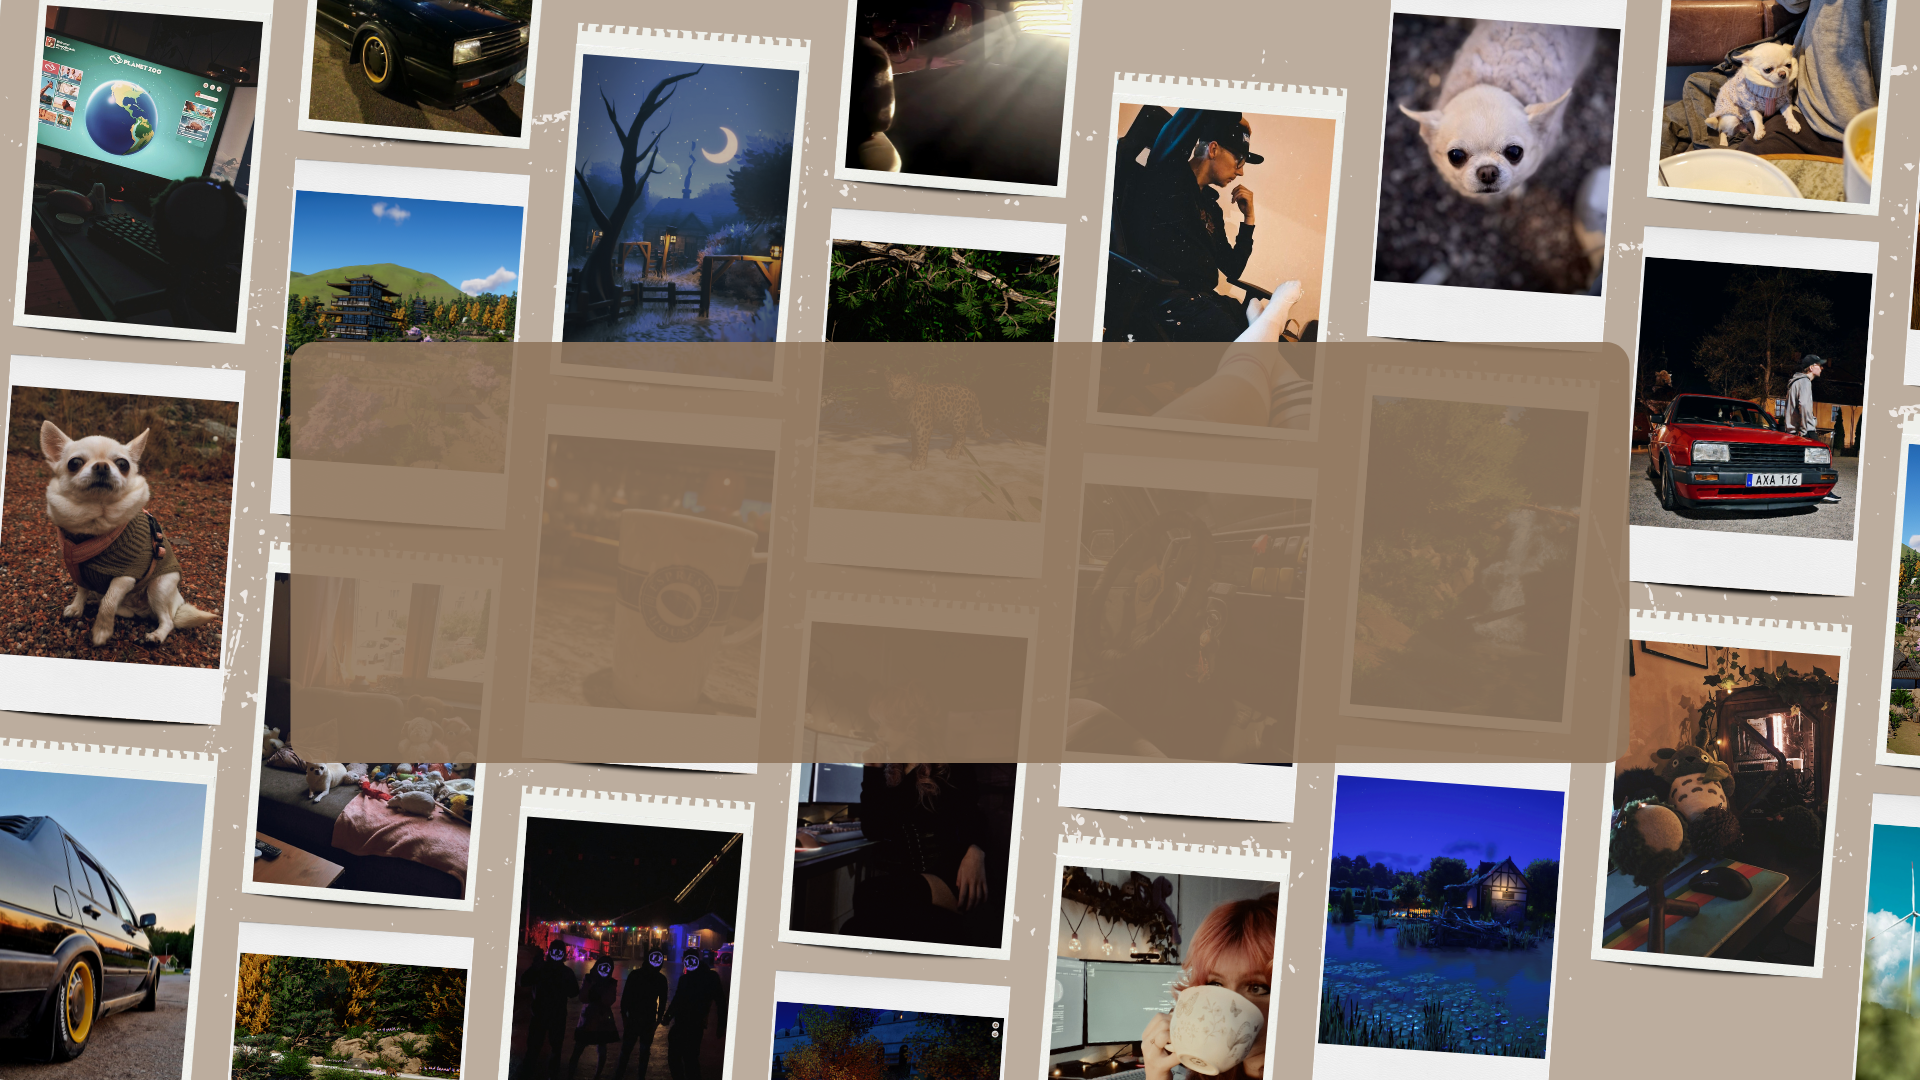
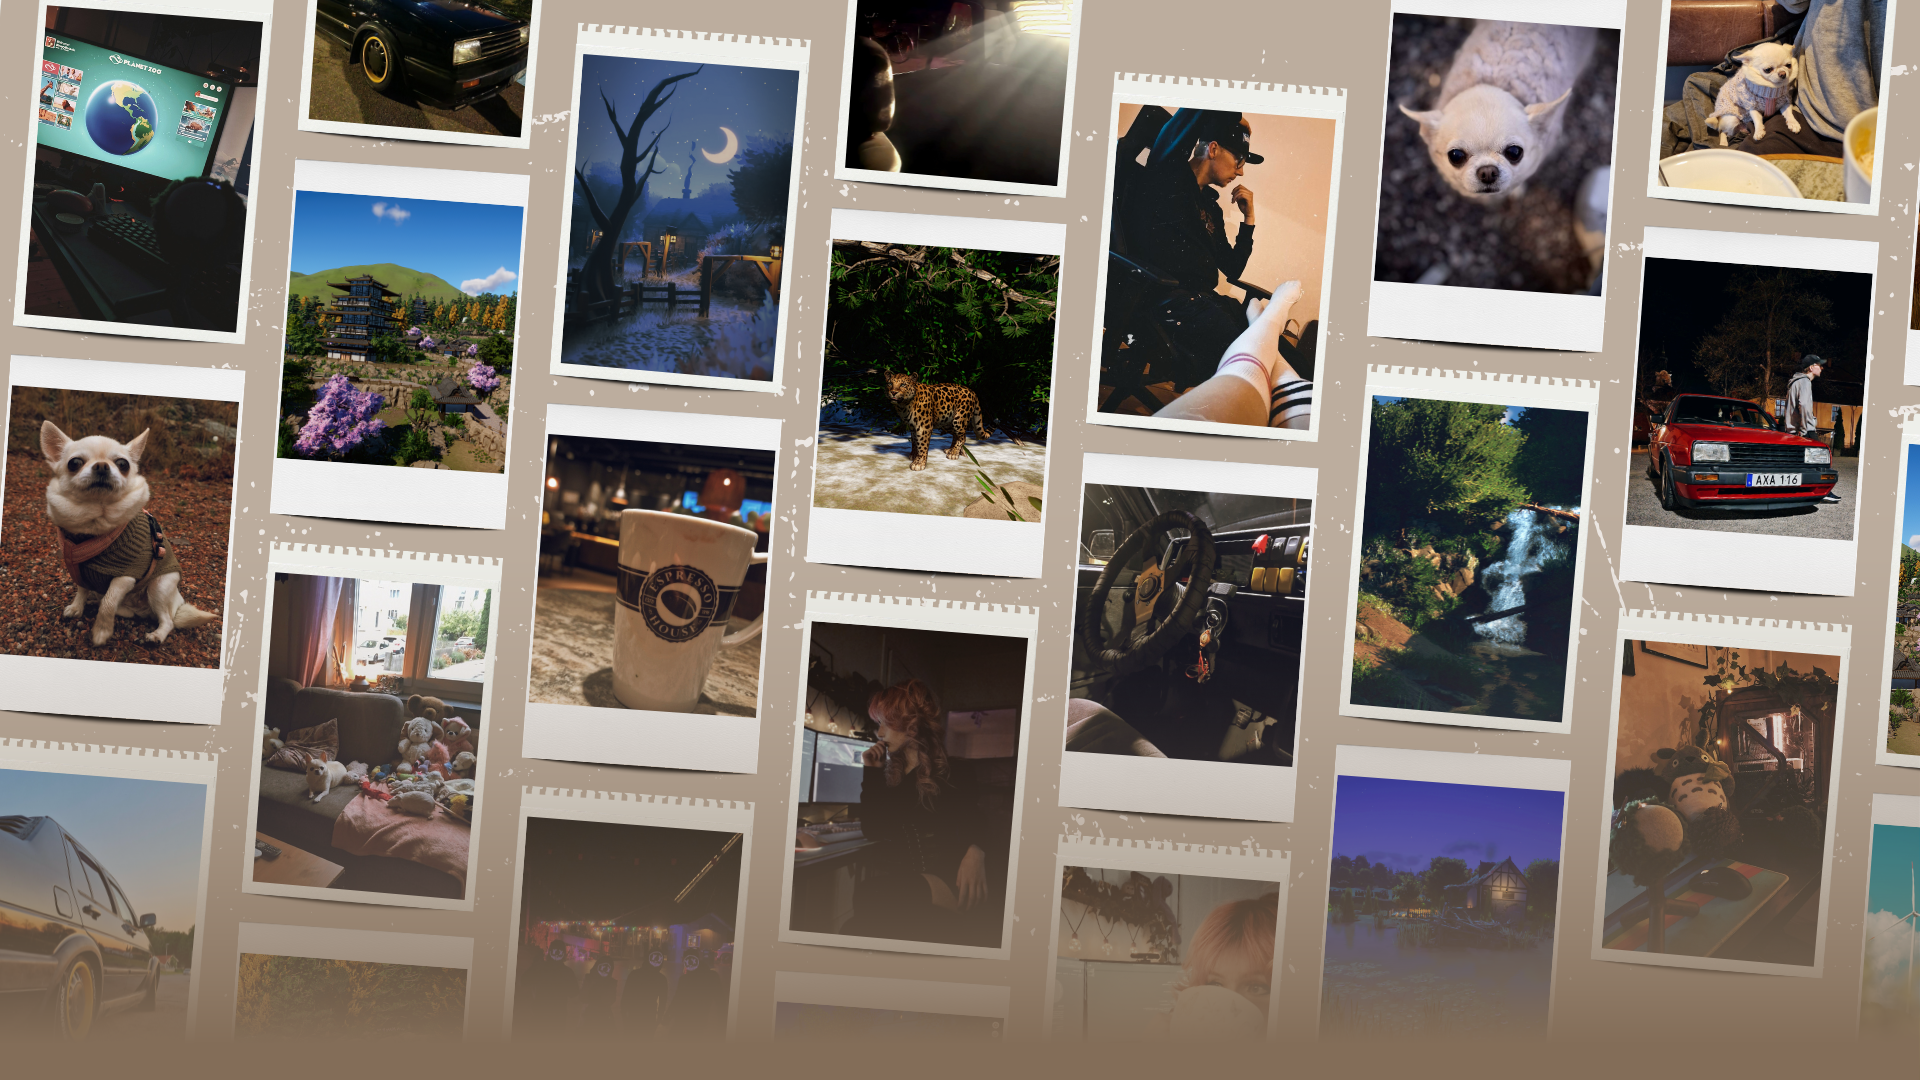
Fixes in layout and pics

diff --git a/Css/Styles.css b/Css/Styles.css
@@ -26,6 +26,7 @@ body {
 
   /* Colours */
   --color-primary:   #699953;
+  --color-primary-trans: rgba(70, 101, 55, 0.5);
   --color-text:      #222;
   --nav-bg:          #699953;
   --nav-link:        #e0f0ff;
@@ -38,6 +39,7 @@ body {
    ============================================================== */
 .ContentCreation {
   --color-primary:   #836d58;
+  --color-primary-trans: rgba(131, 109, 88, 0.5);
   --color-text:      #222;
   --nav-bg:          #836d58;
   --nav-link:        #e0f0ff;
@@ -93,11 +95,26 @@ a:hover { text-decoration: none; }
   justify-content: center;
   text-align: center;
   min-height: 100vh;
+  height: auto;
   padding: 2rem;
   z-index: 1;
-  background: cover no-repeat;
+  background-size: cover;      /* always fill the container, keep aspect ratio */
+  background-position: center; /* keep the focal point centered */
+  background-repeat: no-repeat;
+  background-attachment: scroll;   
   color: var(--nav-link);
 }
+
+.hero-content {
+  /* 1⃣ Make the box shrink‑wrap its children */
+  display: inline-block;       /* fits tightly to the text */
+  padding: 1.2rem 1.6rem;              /* space around the text */
+  border-radius: 0.8rem;               /* optional rounded corners */
+  background: var(--color-primary-trans);     /* semi‑transparent dark overlay */
+  backdrop-filter: blur(4px);          /* subtle frosted‑glass feel (optional) */
+  box-shadow: 0 4px 12px rgba(0,0,0,.3);/* slight depth */
+}
+
 .hero::before {
   content: "";
   position: absolute;

diff --git a/index.html b/index.html
@@ -17,12 +17,14 @@
 
     <!-- HERO SECTION (unchanged) -->
     <section class="hero">
-        <h1>Welcome to My Creative Hub</h1>
-        <h3>– Turning ideas into visual stories, functional interfaces, and clean code</h3>
-        <p>
-            I’m a multidisciplinary creator who blends design, development, and media production to deliver 
-            polished digital experiences. Below is a quick snapshot of the skills and projects I bring to every collaboration.
-        </p>
+        <div class="hero-content">
+            <h1>Welcome to My Creative Hub</h1>
+            <h3>– Turning ideas into visual stories, functional interfaces, and clean code</h3>
+            <p>
+                I’m a multidisciplinary creator who blends design, development, and media production to deliver 
+                polished digital experiences. Below is a quick snapshot of the skills and projects I bring to every collaboration.
+            </p>
+        </div>
     </section>
 
     <!-- SIMPLE NAV (optional) -->

diff --git a/Html/ContentCreation.html b/Html/ContentCreation.html
@@ -17,12 +17,14 @@
 
     <!-- HERO SECTION (unchanged) -->
     <section class="hero">
-        <h1>Welcome to My Creative Hub</h1>
-        <h3>– Turning ideas into visual stories, functional interfaces, and clean code</h3>
-        <p>
-            I’m a multidisciplinary creator who blends design, development, and media production to deliver 
-            polished digital experiences. Below is a quick snapshot of the skills and projects I bring to every collaboration.
-        </p>
+        <div class="hero-content">
+          <h1>Welcome to My Creative Hub</h1>
+          <h3>– Turning ideas into visual stories, functional interfaces, and clean code</h3>
+          <p>
+              I’m a multidisciplinary creator who blends design, development, and media production to deliver 
+              polished digital experiences. Below is a quick snapshot of the skills and projects I bring to every collaboration.
+          </p>
+        </div>
     </section>
 
     <!-- NAV -->
